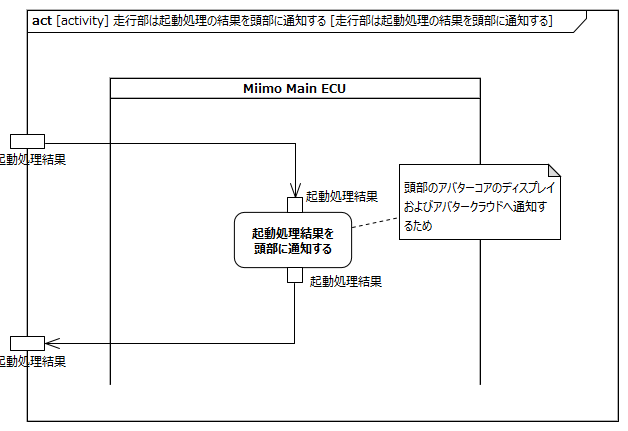
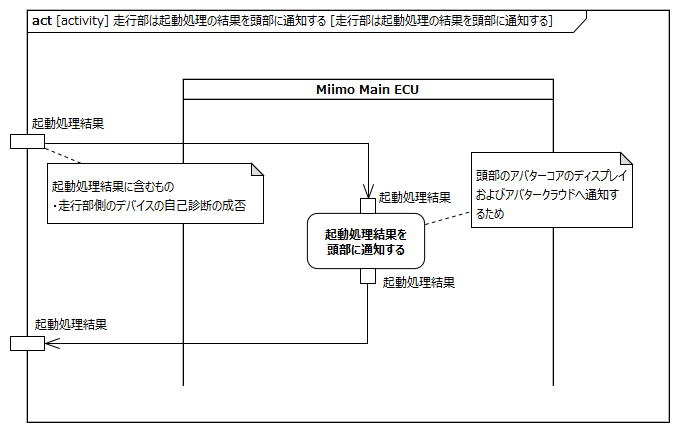
update

Changed region(s): [[0.0, 0.0302, 0.9379, 0.9652], [0.9682, 0.0302, 0.9984, 0.9652], [0.4538, 0.3318, 0.4841, 0.3619]]

diff --git a/requirements/requirement.md b/requirements/requirement.md
@@ -1131,15 +1131,14 @@ date: 2021年11月22日
 |頭部は起動処理の完了をアバタークラウドに通知する||
 |頭部は起動処理の結果を表示する||
 |胴体部は頭部による自己診断を受ける|アバターコアによる診断|
-|胴体部は起動処理の失敗（アバタークラウドへの接続失敗も含む）を本体に表示する|ステータスLEDなど|
-|走行部は胴体部の電源on操作により起動し、起動処理を開始する||
+|胴体部は起動処理の結果を走行部から受け表示する|ステータスLEDなど|
+|走行部は胴体部の電源ON操作により起動し、起動処理を開始する||
 |走行部は頭部に電源を供給する||
 |走行部は自己診断を行う||
 |走行部は自己診断が正常に完了した場合、一時停止状態に設定する||
-|走行部は起動処理の完了を頭部に通知する||
 |走行部は自己診断で異常があった場合、診断結果を保存する||
-|走行部は自己診断で異常があった場合および頭部の起動処理に失敗したことを通知された場合、起動処理を失敗とする||
-|走行部は起動処理の失敗を頭部に通知する||
+|走行部は起動処理の結果を頭部に通知する||
+|走行部は起動処理の結果を胴体部に通知する||
 
 <div style="page-break-before:always"></div>
 

diff --git a/requirements/power_on.md b/requirements/power_on.md
@@ -64,7 +64,7 @@ avatarin側の責務のため、対象外とする。
 
 <div style="page-break-before:always"></div>
 
-## 頭部は自己診断で異常があった場合、走行部に通知する
+## 頭部は自己診断で異常があった場合およびアバタークラウドへの接続に失敗した場合、その結果を走行部に通知する
 
 avatarin側の責務のため、対象外とする。
 
@@ -204,7 +204,8 @@ avatarin側の責務のため、対象外とする。
 
 |要求|備考|
 |:---|:---|
-|Miimo Main ECUは起動処理結果を頭部に通知する|頭部のアバターコアおよびアバタークラウドへの通知のため|
+|Miimo Main ECUは起動処理結果を頭部に通知する|※1|
+※1:頭部のアバターコアおよびアバタークラウドへの通知のため
 
 <div style="page-break-before:always"></div>
 
@@ -217,4 +218,6 @@ avatarin側の責務のため、対象外とする。
 
 |要求|備考|
 |:---|:---|
-|Miimo Main ECUは起動処理結果を胴体部に通知する|胴体部の表示（LED等）装置に結果を表示させるため|
+|Miimo Main ECUは起動処理結果を胴体部に通知する|※1※2|
+※1:胴体部の表示（LED等）装置に結果を表示させるため
+※2:起動処理結果には頭部/胴体部側の自己診断の成否、アバタークラウドへの接続エラーを含む
